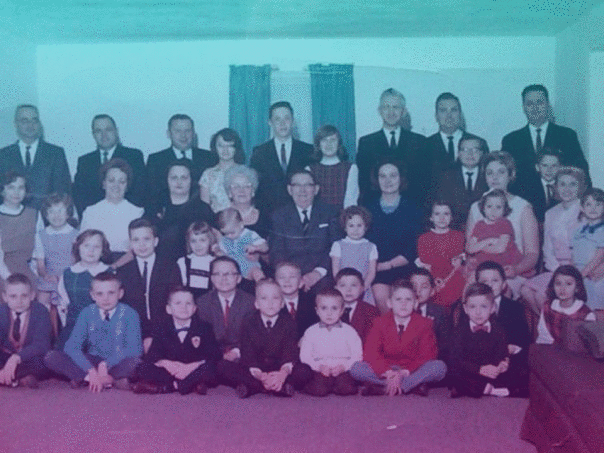
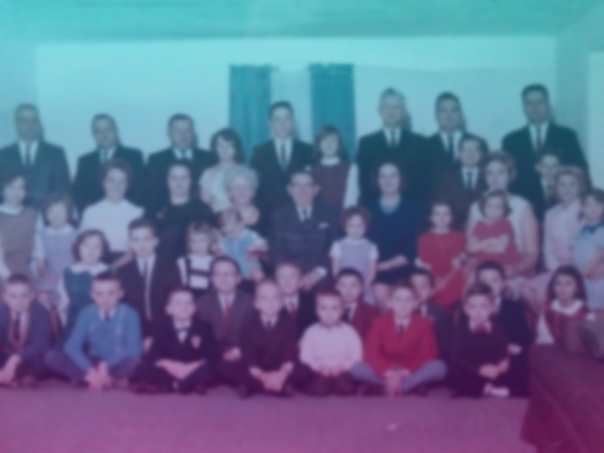
background hero image took away psuedo element stuff

diff --git a/app/assets/stylesheets/homepage.scss b/app/assets/stylesheets/homepage.scss
@@ -8,27 +8,21 @@
   position: relative;
   .hero-splash {
     height: 75vh;
-    &::before {
-      content: '';
-      background-image: url('gradient.png');
-      background-attachment: fixed;
-      background-position: center;
-      background-repeat: no-repeat;
-      background-size: cover;
-      width: 100%;
-      position: absolute;
-      top: 0; right: 0; bottom: 0; left: 0;
-      -webkit-filter: blur(3px); /* Safari */
-      filter: blur(3px);
-    }
+    background-image: url('gradient.png');
+    background-attachment: fixed;
+    background-position: center;
+    background-repeat: no-repeat;
+    background-size: cover;
+    width: 100%;
     &__cta{
       position: absolute;
       height: 60%;
-      width: 60%;
-      left: 20%;
-      right: 20%;
-      top: 20%;
+      width: 70%;
+      left: 15%;
+      right: 15%;
+      top: 41%;
       bottom: 20%;
+      margin: auto;
       &-text {
         text-align: center;
         font-family: "Lato";
